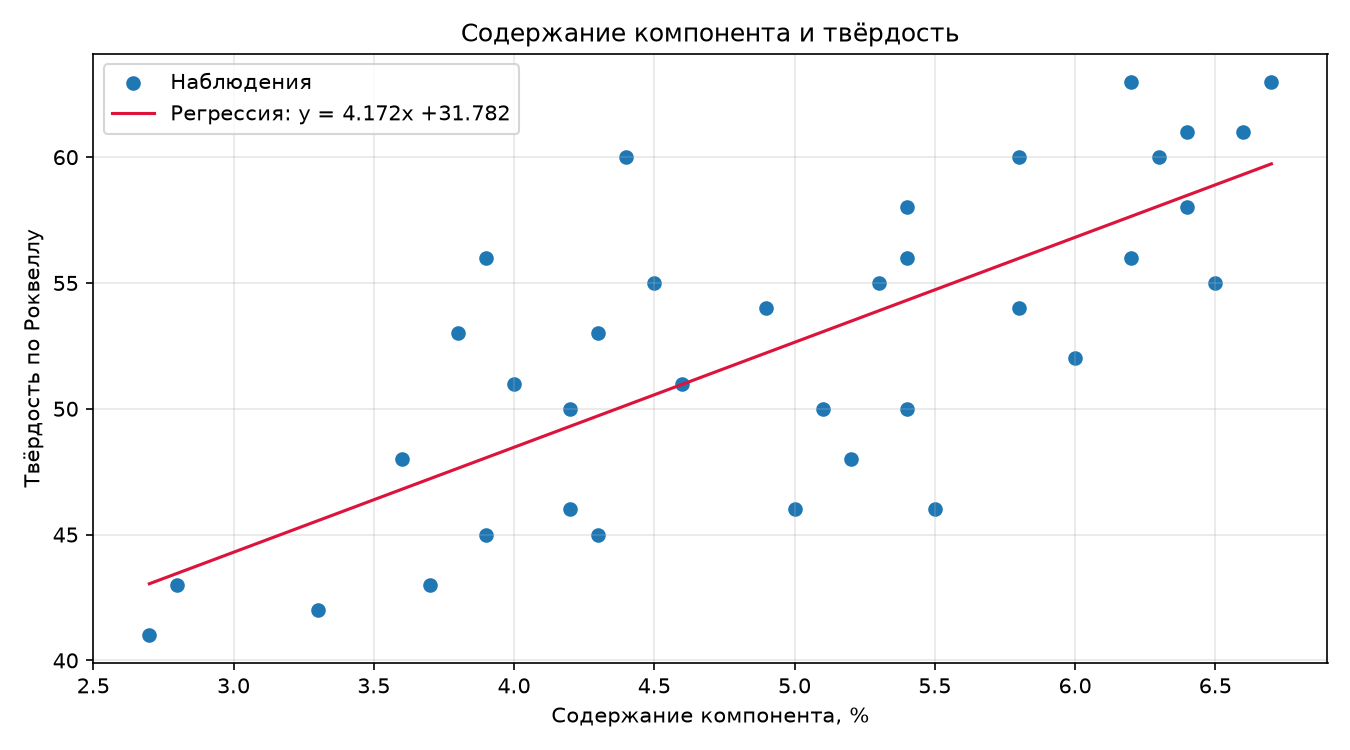
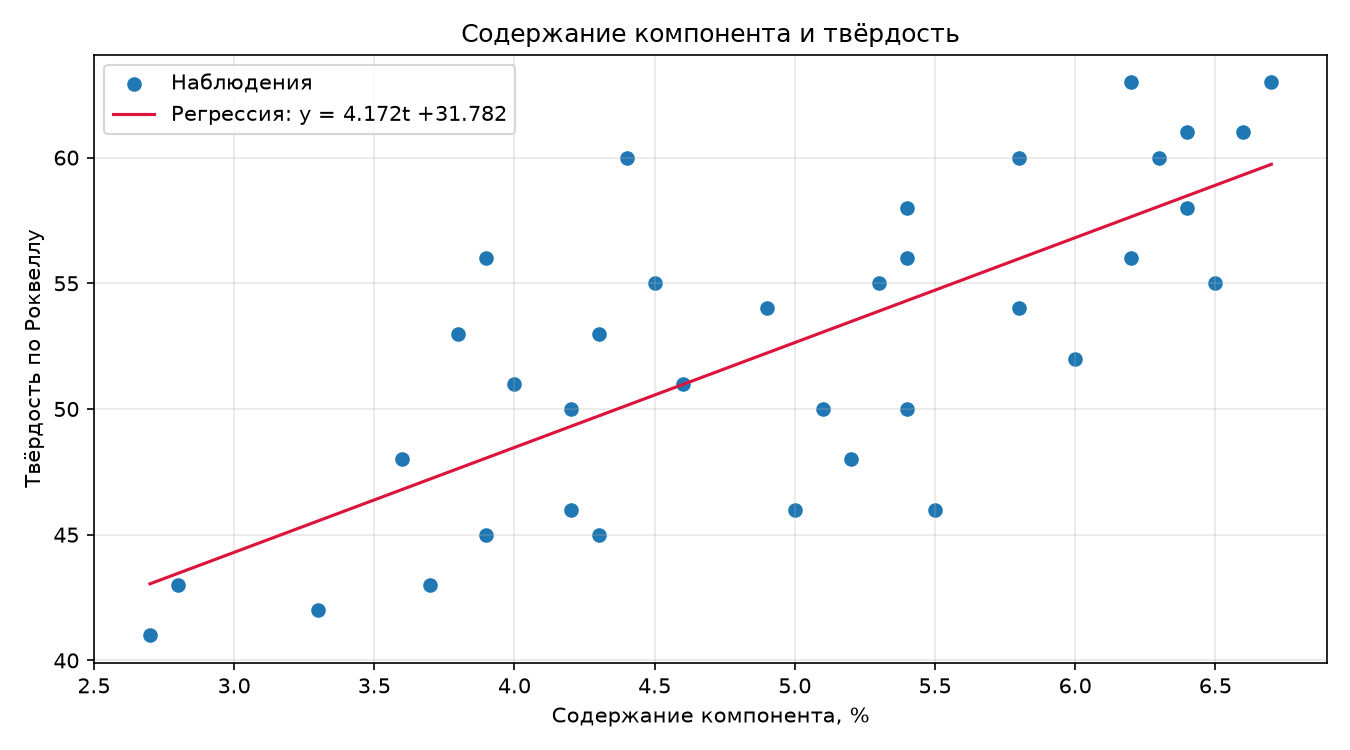
правки по лабе 4

diff --git a/laba_4/main.py b/laba_4/main.py
@@ -36,11 +36,10 @@ def plot(
     ax.scatter(x, y, label="Наблюдения")
     start, end = min(x), forecast if forecast is not None else max(x)
     ax.plot([start, end], [slope * start + intercept, slope * end + intercept],
-            color="crimson", label=f"Регрессия: y = {slope:.3f}x {intercept:+.3f}")
+            color="crimson", label=f"Регрессия: y = {slope:.3f}t {intercept:+.3f}")
     if forecast is not None:
         ax.scatter([forecast], [slope * forecast + intercept], color="darkorange",
                    marker="*", s=140, label="Прогноз на 2022 год", zorder=3)
-        ax.plot(x, y, color="steelblue", alpha=0.4)
         r2 = regression(x, y)[-1]
         ax.text(0.03, 0.95, f"R² = {r2:.4f}", transform=ax.transAxes, va="top")
     ax.set(title=title, xlabel=xlabel, ylabel=ylabel)
@@ -61,7 +60,7 @@ def main() -> None:
           56, 46, 41, 43, 58, 60, 61, 55, 46, 53, 51, 56]
     x2 = [18, 22, 35, 28, 36, 24, 32, 38, 52, 46, 48, 54]
     y2 = [36, 47, 50, 44, 52, 48, 55, 51, 56, 60, 58, 65]
-    years = list(range(2011, 2022))
+    periods = list(range(1, 12))  # 1 — 2011 год, 11 — 2021 год
     tourists = [13062, 14019, 14583, 15590, 20135, 20534, 25292, 28074, 28302, 27328, 28979]
 
     cov, sx, sy, r, a, b, r2 = regression(x1, y1)
@@ -75,12 +74,12 @@ def main() -> None:
     print(f"Для дохода 70 млн руб. затраты = {(70 - b) / a:.4f} тыс. руб.")
     plot(x2, y2, a, b, "Расходы на рекламу и доход", "Расходы, тыс. руб.", "Доход, млн руб.", "task2.png")
 
-    _, _, _, _, a, b, r2 = regression(years, tourists)
-    forecast = a * 2022 + b
-    print(f"\nЗадание 3: y = {a:.4f} × год {b:+.4f}, R² = {r2:.4f}")
+    _, _, _, _, a, b, r2 = regression(periods, tourists)
+    forecast = a * 12 + b
+    print(f"\nЗадание 3: y = {a:.4f} × t {b:+.4f}, R² = {r2:.4f}")
     print(f"Прогноз на 2022 год = {forecast:.2f} тыс. чел.")
     print(f"Относительная погрешность = {abs(forecast - 29547) / 29547 * 100:.2f}%")
-    plot(years, tourists, a, b, "Численность размещённых туристов", "Год", "Туристы, тыс. чел.", "task3.png", 2022)
+    plot(periods, tourists, a, b, "Численность размещённых туристов", "Период (1 — 2011 год)", "Туристы, тыс. чел.", "task3.png", 12)
 
 
 if __name__ == "__main__":

diff --git a/laba_4/README.md b/laba_4/README.md
@@ -38,7 +38,7 @@ uv run laba_4/main.py
 
 ### 3. Численность размещённых туристов
 
-- Модель по данным 2011–2021 годов: **ŷ = 1855,4818 × год − 3 719 206,0727**, Y измеряется в тыс. человек.
+- Модель по данным 2011–2021 годов: **ŷ = 1855,4818 × период + 10 312,3818**, Y измеряется в тыс. человек. Период 1 соответствует 2011 году, период 11 — 2021 году, период 12 — 2022 году.
 - `R² = 0,9317`: линейный тренд объясняет около **93,17%** изменчивости наблюдений в 2011–2021 годах.
 - Прогноз на 2022 год: **32 578,16 тыс. человек**; фактическое значение по условию — **29 547 тыс. человек**.
 - Относительная погрешность: `|32578,16 − 29547| / 29547 × 100% =` **10,26%**.
